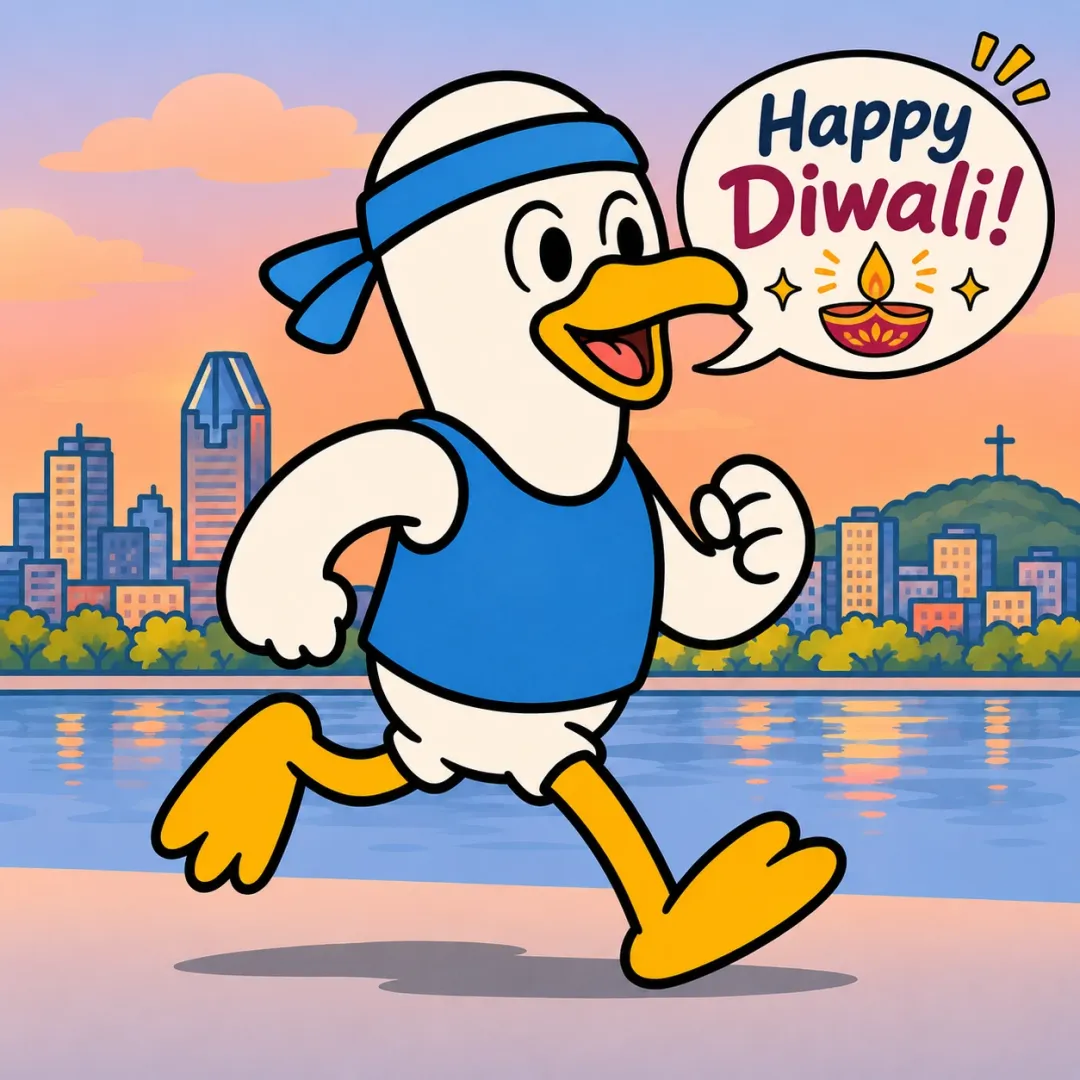
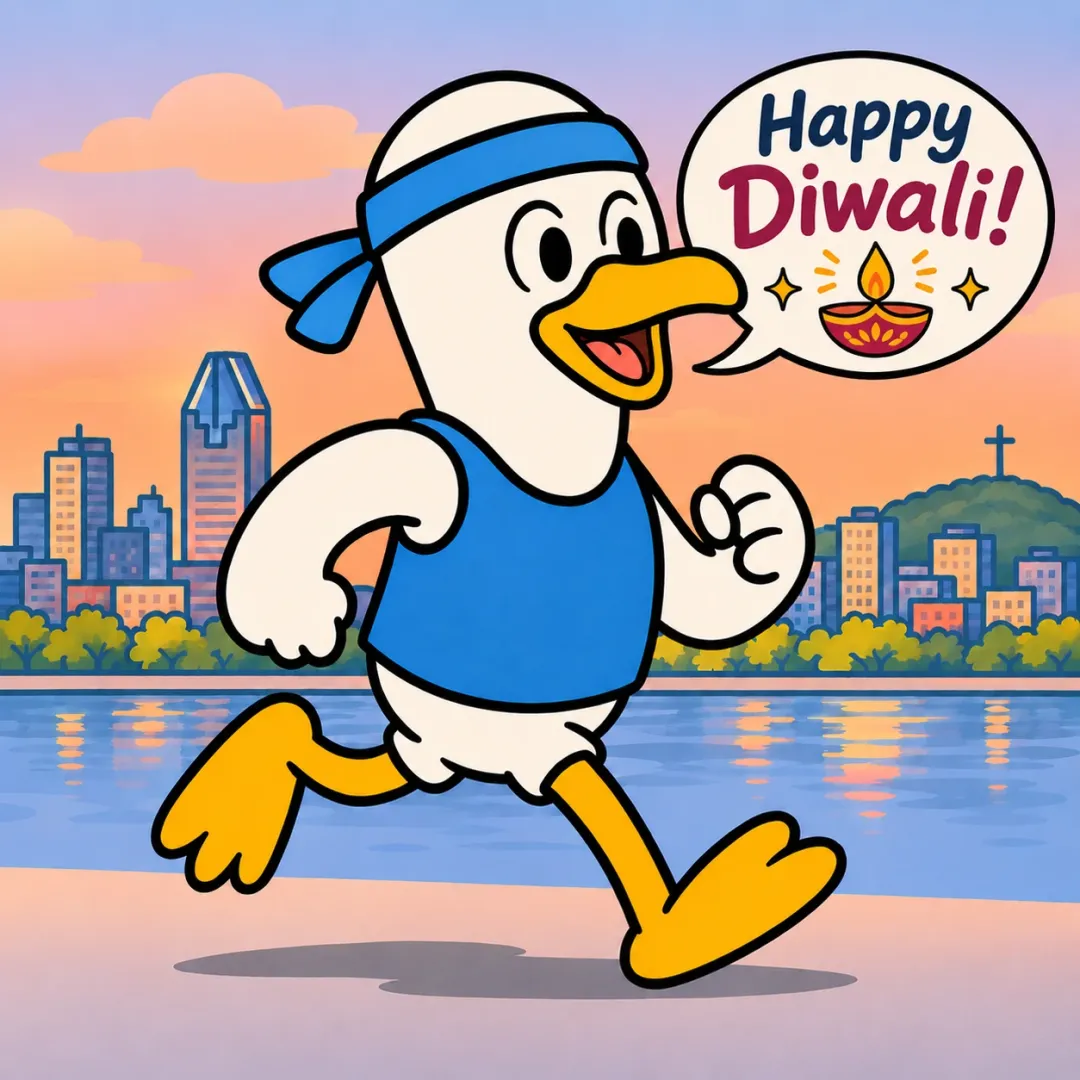
Home screen: new Diwali picture; no :has() for older phones
Swaps in the updated Happy Diwali duck (same end time: Monday 9
November, 12:00 Montréal). The square-scene spacing now hangs off a
class on the hero instead of :has(), which iOS before 15.4 and older
Chrome ignore.

diff --git a/src/components/ModePicker.tsx b/src/components/ModePicker.tsx
@@ -19,7 +19,7 @@ export function ModePicker({ onPick }: Props) {
   const special = specialScene(Date.now());
   return (
     <div className="app picker">
-      <header className="picker__hero">
+      <header className={special ? 'picker__hero picker__hero--square' : 'picker__hero'}>
         <div className="picker__sky">
           {/* Read as "AnyoneCanPace 2.0" (plus "BETA"); drawn as ANYONE CAN / PACE 2.0 with a sticker. */}
           <h1 className="picker__title" aria-label={__BETA__ ? 'AnyoneCanPace 2.0 BETA' : 'AnyoneCanPace 2.0'}>

diff --git a/src/styles.css b/src/styles.css
@@ -787,7 +787,7 @@ body:has(.app--paper) {
   height: var(--scene-w);
 }
 
-.picker__hero:has(.picker__scene--square) + .picker__main {
+.picker__hero--square + .picker__main {
   margin-top: calc(var(--scene-w) * -0.05);
 }
 
